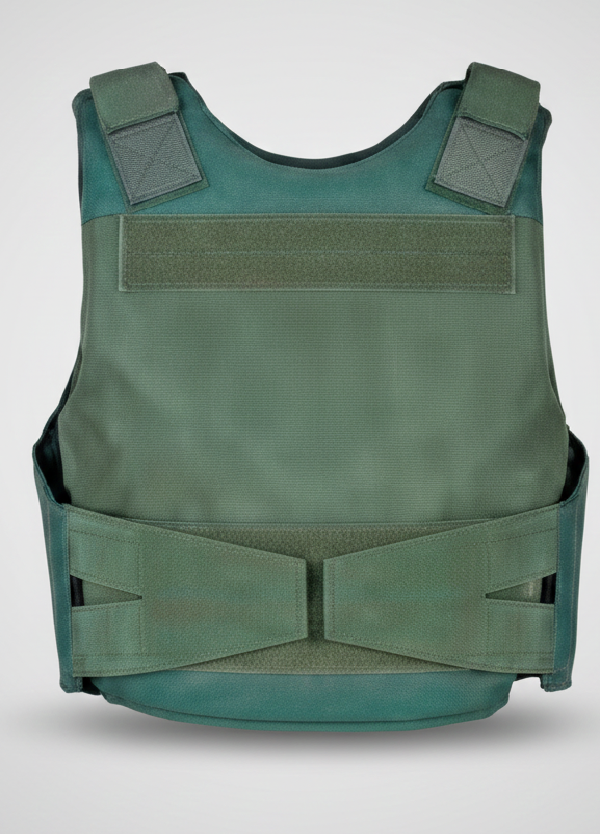
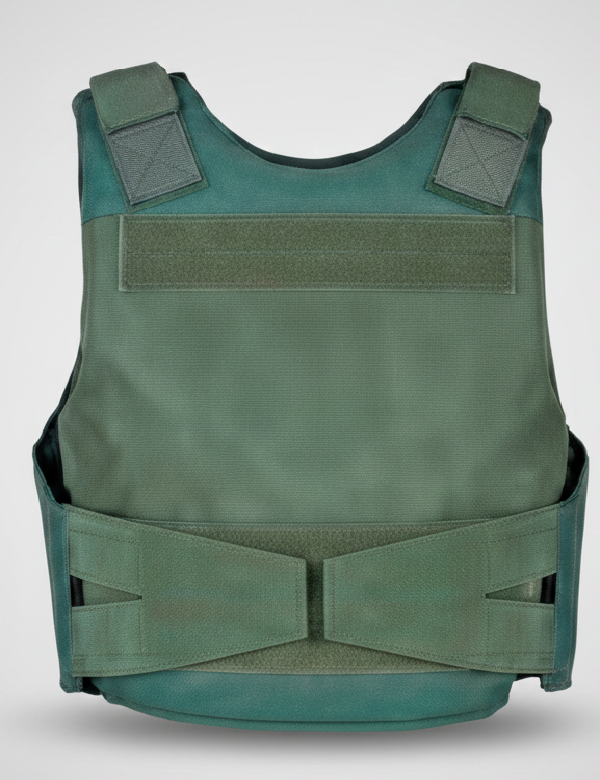
071830ene26

diff --git a/css/armor.css b/css/armor.css
@@ -26,7 +26,7 @@ body{
 
 .sidebar{
     padding: 0;
-    width: 250px;
+    width: 200px;
     position: sticky;
     top: 0;
 }
@@ -176,7 +176,6 @@ position: relative;
     border-radius: 15px;
 }
 .items-armor:nth-child(12) {
-    border: 1px solid #f00;
     text-align: center;
 }
 
@@ -190,16 +189,18 @@ position: relative;
     border-radius: 10px;
 }
 .items-armor:nth-child(13) {
-    border: 1px solid #f00;
     text-align: center;
-    padding-top: 20px;
+    padding-top: 5px;
+    line-height: 5px;
+}
+.items-armor:nth-child(13) h2 {
+    margin-top: 25px;
 }
 .items-armor:nth-child(13) h3 {
-    padding: 15px;
+    padding: 5px;
 }
 .items-armor:nth-child(14) {
     text-align: center;
-    border: 1px solid #f00;
     padding-top: 25px;    
     grid-column: 1 / 3;
 }
@@ -207,15 +208,31 @@ position: relative;
     width: 23%;
     border-radius: 10px;
 }
-.items-armor:nth-child(16) {
-    align-items: end;
+.items-armor:nth-child(15) {
+    grid-column: 1 / 3;
+    font-size: 2.7rem;
+    display: flex;
+    flex-direction: row;
+    justify-content: space-between;
+    margin-top: 80px;
+    padding-left: 40px;
+}
+.items-armor:nth-child(15) img{
+    width: 23%;
+    height: 100%;
 }
 .items-armor:nth-child(16) img{
-    width: 55%;
-    height: 90%;
-    border-radius: 30% 0 0 30%;
+    width:100% ;
+    border-radius: 10px;
 }
 
+.items-armor:nth-child(18) img {
+    width: 100%;
+    border-radius: 10px;
+}
+.items-armor:nth-child(19) ul  {
+    line-height: 25px;
+}
 
 
 
@@ -277,10 +294,23 @@ position: relative;
         border: 1px solid #f00;
         padding-top: 25px;
         grid-column: 1 / 2;
-}
+        }
         .items-armor:nth-child(14) img {
         width: 36%;
-}
+        }
+        .items-armor:nth-child(15) {
+        grid-column: 1 / 2;
+        font-size: 1.7rem;
+        padding-left: 25px;
+        }
+        .items-armor:nth-child(16) {
+        padding: 30px;
+        
+        }
+        .items-armor:nth-child(18)  {
+        padding: 30px;
+        }
+
 }
 
 @container main (max-width: 450px){
@@ -301,6 +331,10 @@ position: relative;
             font-size: .73rem;
             line-height: 25px;
             margin-top: 19px;
+        }
+        .items-armor:nth-child(15) img {
+        width: 25%;
+        height: 50%;
         }
 }
 @container main (max-width: 800px){

diff --git a/blindaje.html b/blindaje.html
@@ -87,12 +87,23 @@ El interior de malla espaciadora constituye uno de los sistemas de ventilación 
                     <div class="items-armor"><img src="imagenes/armor-13.png" alt="">
                     <h2>S-FIT 024</h2>
                     <h3>Puede hacerse a medida. El diseño simple permite al usuario un movimiento cómodo.</h3></div>
-                    <div class="items-armor"><h2>SERIE S-TAC </h2></div>
-                    <div class="items-armor"><img src="imagenes/armor-14.png" alt=""></div>15
-                    <div class="items-armor">17</div>
-                    <div class="items-armor">18</div>
-                    <div class="items-armor">19</div>
-                    <div class="items-armor">20</div>
+                    <div class="items-armor"><h2>SERIE S-TAC </h2><img src="imagenes/armor-14.png" alt=""></div>
+                    <div class="items-armor"><img src="imagenes/armor-15.png" alt=""></div>
+                    <div class="items-armor"><h2> S-TAC 031 <br>
+DISEÑADO PARA: Operaciones Militares Especiales, Ejército.
+</h2></div>
+                    <div class="items-armor"><img src="imagenes/armor-16.png" alt=""></div>
+                    <div class="items-armor"><h2>CARACTERÍSTICAS:</h2>
+                    <ul>
+                        <li>El estilo táctico más clásico con sistema MOLLE rodeando hombros y cintura ajustables.</li>
+                        <li>Sistema de liberación de un punto que permite quitarse el equipo rápida y fácilmente en situaciones de emergencia.</li>
+                        <li>Asa de arrastre súper reforzada.</li>
+                        <li>Correas de hombro extendidas, ajustables y acolchadas con espuma.</li>
+                        <li>Cierre de faja exterior con solapa frontal integrada.</li>
+                        <li>Cubierta exterior desmontable y lavable</li>
+                        <li>Cintas de velcro no abrasivas.</li>
+                        <li>Bolsas personalizadas acoplables para uso multipropósito.</li>
+                    </ul></div>
                     <div class="items-armor">21</div>
                     <div class="items-armor">22</div>
                     <div class="items-armor">23</div>
